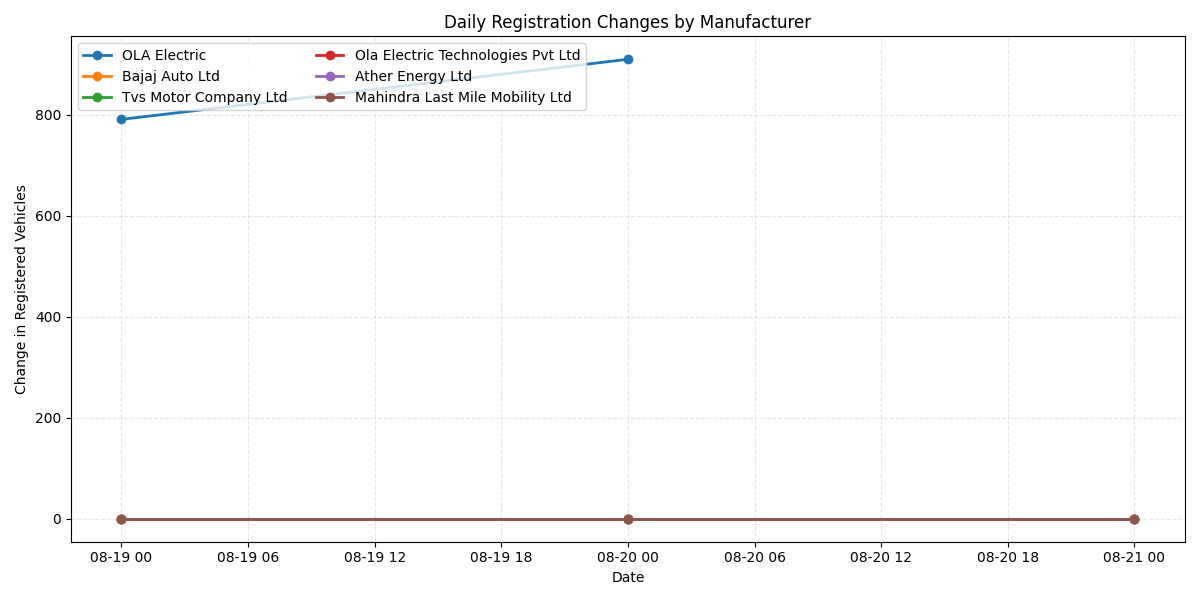
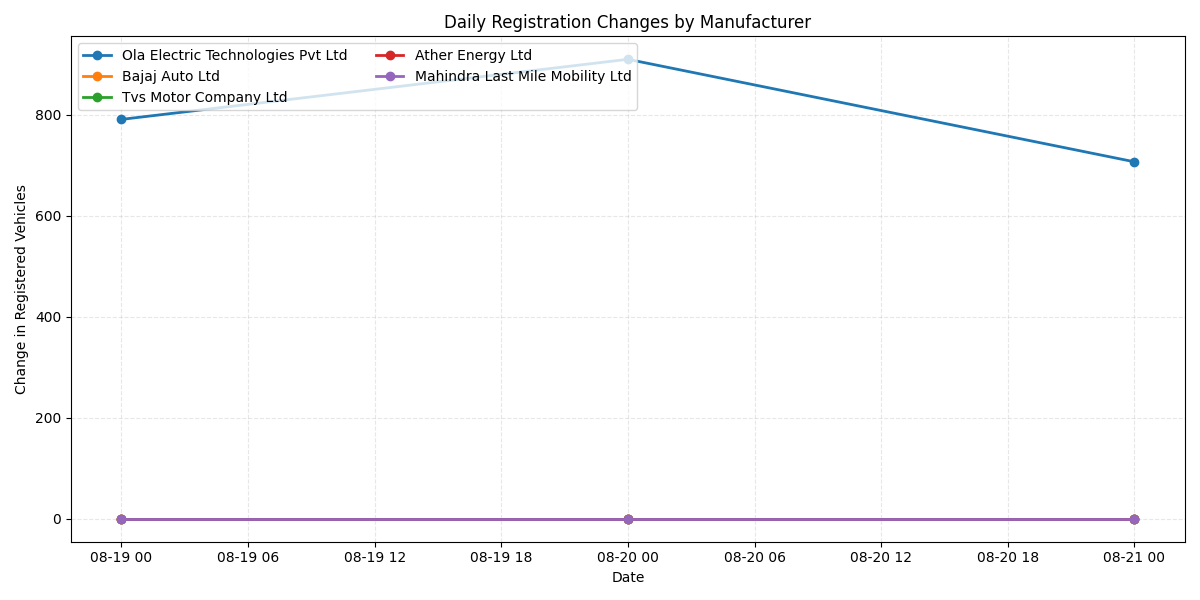
Update daily_changes.csv to correct vehicle registration data for 2025-08-21 and adjust column headers for clarity. Modify daily_changes.html and monthly_changes.html to reflect updated chart IDs and ensure consistency in embedded HTML charts.

diff --git a/docs/monthly_changes.html b/docs/monthly_changes.html
@@ -2,6 +2,6 @@
 <head><meta charset="utf-8" /></head>
 <body>
     <div>                        <script type="text/javascript">window.PlotlyConfig = {MathJaxConfig: 'local'};</script>
[2 lines of base64/hex data omitted]
 </body>
 </html>

diff --git a/docs/daily_changes.html b/docs/daily_changes.html
@@ -2,6 +2,6 @@
 <head><meta charset="utf-8" /></head>
 <body>
     <div>                        <script type="text/javascript">window.PlotlyConfig = {MathJaxConfig: 'local'};</script>
-        <script charset="utf-8" src="https://cdn.plot.ly/plotly-3.1.0.min.js" integrity="sha256-Ei4740bWZhaUTQuD6q9yQlgVCMPBz6CZWhevDYPv93A=" crossorigin="anonymous"></script>                <div id="a5bd381a-e89e-4e65-b82b-1d59f34470ca" class="plotly-graph-div" style="height:100%; width:100%;"></div>            <script type="text/javascript">                window.PLOTLYENV=window.PLOTLYENV || {};                                if (document.getElementById("a5bd381a-e89e-4e65-b82b-1d59f34470ca")) {                    Plotly.newPlot(                        "a5bd381a-e89e-4e65-b82b-1d59f34470ca",                        [{"mode":"lines+markers","name":"OLA Electric","x":["2025-08-19T00:00:00.000000000","2025-08-20T00:00:00.000000000","2025-08-21T00:00:00.000000000"],"y":{"dtype":"f8","bdata":"AAAAAAC4iEAAAAAAAHCMQAAAAAAAAPh\u002f"},"type":"scatter"},{"mode":"lines+markers","name":"Bajaj Auto Ltd","x":["2025-08-19T00:00:00.000000000","2025-08-20T00:00:00.000000000","2025-08-21T00:00:00.000000000"],"y":{"dtype":"i1","bdata":"AAAA"},"type":"scatter"},{"mode":"lines+markers","name":"Tvs Motor Company Ltd","x":["2025-08-19T00:00:00.000000000","2025-08-20T00:00:00.000000000","2025-08-21T00:00:00.000000000"],"y":{"dtype":"i1","bdata":"AAAA"},"type":"scatter"},{"mode":"lines+markers","name":"Ola Electric Technologies Pvt Ltd","x":["2025-08-19T00:00:00.000000000","2025-08-20T00:00:00.000000000","2025-08-21T00:00:00.000000000"],"y":{"dtype":"i1","bdata":"AAAA"},"type":"scatter"},{"mode":"lines+markers","name":"Ather Energy Ltd","x":["2025-08-19T00:00:00.000000000","2025-08-20T00:00:00.000000000","2025-08-21T00:00:00.000000000"],"y":{"dtype":"i1","bdata":"AAAA"},"type":"scatter"},{"mode":"lines+markers","name":"Mahindra Last Mile Mobility Ltd","x":["2025-08-19T00:00:00.000000000","2025-08-20T00:00:00.000000000","2025-08-21T00:00:00.000000000"],"y":{"dtype":"i1","bdata":"AAAA"},"type":"scatter"}],                        {"legend":{"orientation":"h","x":0,"xanchor":"left","y":1.02,"yanchor":"bottom"},"template":{"data":{"barpolar":[{"marker":{"line":{"color":"white","width":0.5},"pattern":{"fillmode":"overlay","size":10,"solidity":0.2}},"type":"barpolar"}],"bar":[{"error_x":{"color":"#2a3f5f"},"error_y":{"color":"#2a3f5f"},"marker":{"line":{"color":"white","width":0.5},"pattern":{"fillmode":"overlay","size":10,"solidity":0.2}},"type":"bar"}],"carpet":[{"aaxis":{"endlinecolor":"#2a3f5f","gridcolor":"#C8D4E3","linecolor":"#C8D4E3","minorgridcolor":"#C8D4E3","startlinecolor":"#2a3f5f"},"baxis":{"endlinecolor":"#2a3f5f","gridcolor":"#C8D4E3","linecolor":"#C8D4E3","minorgridcolor":"#C8D4E3","startlinecolor":"#2a3f5f"},"type":"carpet"}],"choropleth":[{"colorbar":{"outlinewidth":0,"ticks":""},"type":"choropleth"}],"contourcarpet":[{"colorbar":{"outlinewidth":0,"ticks":""},"type":"contourcarpet"}],"contour":[{"colorbar":{"outlinewidth":0,"ticks":""},"colorscale":[[0.0,"#0d0887"],[0.1111111111111111,"#46039f"],[0.2222222222222222,"#7201a8"],[0.3333333333333333,"#9c179e"],[0.4444444444444444,"#bd3786"],[0.5555555555555556,"#d8576b"],[0.6666666666666666,"#ed7953"],[0.7777777777777778,"#fb9f3a"],[0.8888888888888888,"#fdca26"],[1.0,"#f0f921"]],"type":"contour"}],"heatmap":[{"colorbar":{"outlinewidth":0,"ticks":""},"colorscale":[[0.0,"#0d0887"],[0.1111111111111111,"#46039f"],[0.2222222222222222,"#7201a8"],[0.3333333333333333,"#9c179e"],[0.4444444444444444,"#bd3786"],[0.5555555555555556,"#d8576b"],[0.6666666666666666,"#ed7953"],[0.7777777777777778,"#fb9f3a"],[0.8888888888888888,"#fdca26"],[1.0,"#f0f921"]],"type":"heatmap"}],"histogram2dcontour":[{"colorbar":{"outlinewidth":0,"ticks":""},"colorscale":[[0.0,"#0d0887"],[0.1111111111111111,"#46039f"],[0.2222222222222222,"#7201a8"],[0.3333333333333333,"#9c179e"],[0.4444444444444444,"#bd3786"],[0.5555555555555556,"#d8576b"],[0.6666666666666666,"#ed7953"],[0.7777777777777778,"#fb9f3a"],[0.8888888888888888,"#fdca26"],[1.0,"#f0f921"]],"type":"histogram2dcontour"}],"histogram2d":[{"colorbar":{"outlinewidth":0,"ticks":""},"colorscale":[[0.0,"#0d0887"],[0.1111111111111111,"#46039f"],[0.2222222222222222,"#7201a8"],[0.3333333333333333,"#9c179e"],[0.4444444444444444,"#bd3786"],[0.5555555555555556,"#d8576b"],[0.6666666666666666,"#ed7953"],[0.7777777777777778,"#fb9f3a"],[0.8888888888888888,"#fdca26"],[1.0,"#f0f921"]],"type":"histogram2d"}],"histogram":[{"marker":{"pattern":{"fillmode":"overlay","size":10,"solidity":0.2}},"type":"histogram"}],"mesh3d":[{"colorbar":{"outlinewidth":0,"ticks":""},"type":"mesh3d"}],"parcoords":[{"line":{"colorbar":{"outlinewidth":0,"ticks":""}},"type":"parcoords"}],"pie":[{"automargin":true,"type":"pie"}],"scatter3d":[{"line":{"colorbar":{"outlinewidth":0,"ticks":""}},"marker":{"colorbar":{"outlinewidth":0,"ticks":""}},"type":"scatter3d"}],"scattercarpet":[{"marker":{"colorbar":{"outlinewidth":0,"ticks":""}},"type":"scattercarpet"}],"scattergeo":[{"marker":{"colorbar":{"outlinewidth":0,"ticks":""}},"type":"scattergeo"}],"scattergl":[{"marker":{"colorbar":{"outlinewidth":0,"ticks":""}},"type":"scattergl"}],"scattermapbox":[{"marker":{"colorbar":{"outlinewidth":0,"ticks":""}},"type":"scattermapbox"}],"scattermap":[{"marker":{"colorbar":{"outlinewidth":0,"ticks":""}},"type":"scattermap"}],"scatterpolargl":[{"marker":{"colorbar":{"outlinewidth":0,"ticks":""}},"type":"scatterpolargl"}],"scatterpolar":[{"marker":{"colorbar":{"outlinewidth":0,"ticks":""}},"type":"scatterpolar"}],"scatter":[{"fillpattern":{"fillmode":"overlay","size":10,"solidity":0.2},"type":"scatter"}],"scatterternary":[{"marker":{"colorbar":{"outlinewidth":0,"ticks":""}},"type":"scatterternary"}],"surface":[{"colorbar":{"outlinewidth":0,"ticks":""},"colorscale":[[0.0,"#0d0887"],[0.1111111111111111,"#46039f"],[0.2222222222222222,"#7201a8"],[0.3333333333333333,"#9c179e"],[0.4444444444444444,"#bd3786"],[0.5555555555555556,"#d8576b"],[0.6666666666666666,"#ed7953"],[0.7777777777777778,"#fb9f3a"],[0.8888888888888888,"#fdca26"],[1.0,"#f0f921"]],"type":"surface"}],"table":[{"cells":{"fill":{"color":"#EBF0F8"},"line":{"color":"white"}},"header":{"fill":{"color":"#C8D4E3"},"line":{"color":"white"}},"type":"table"}]},"layout":{"annotationdefaults":{"arrowcolor":"#2a3f5f","arrowhead":0,"arrowwidth":1},"autotypenumbers":"strict","coloraxis":{"colorbar":{"outlinewidth":0,"ticks":""}},"colorscale":{"diverging":[[0,"#8e0152"],[0.1,"#c51b7d"],[0.2,"#de77ae"],[0.3,"#f1b6da"],[0.4,"#fde0ef"],[0.5,"#f7f7f7"],[0.6,"#e6f5d0"],[0.7,"#b8e186"],[0.8,"#7fbc41"],[0.9,"#4d9221"],[1,"#276419"]],"sequential":[[0.0,"#0d0887"],[0.1111111111111111,"#46039f"],[0.2222222222222222,"#7201a8"],[0.3333333333333333,"#9c179e"],[0.4444444444444444,"#bd3786"],[0.5555555555555556,"#d8576b"],[0.6666666666666666,"#ed7953"],[0.7777777777777778,"#fb9f3a"],[0.8888888888888888,"#fdca26"],[1.0,"#f0f921"]],"sequentialminus":[[0.0,"#0d0887"],[0.1111111111111111,"#46039f"],[0.2222222222222222,"#7201a8"],[0.3333333333333333,"#9c179e"],[0.4444444444444444,"#bd3786"],[0.5555555555555556,"#d8576b"],[0.6666666666666666,"#ed7953"],[0.7777777777777778,"#fb9f3a"],[0.8888888888888888,"#fdca26"],[1.0,"#f0f921"]]},"colorway":["#636efa","#EF553B","#00cc96","#ab63fa","#FFA15A","#19d3f3","#FF6692","#B6E880","#FF97FF","#FECB52"],"font":{"color":"#2a3f5f"},"geo":{"bgcolor":"white","lakecolor":"white","landcolor":"white","showlakes":true,"showland":true,"subunitcolor":"#C8D4E3"},"hoverlabel":{"align":"left"},"hovermode":"closest","mapbox":{"style":"light"},"paper_bgcolor":"white","plot_bgcolor":"white","polar":{"angularaxis":{"gridcolor":"#EBF0F8","linecolor":"#EBF0F8","ticks":""},"bgcolor":"white","radialaxis":{"gridcolor":"#EBF0F8","linecolor":"#EBF0F8","ticks":""}},"scene":{"xaxis":{"backgroundcolor":"white","gridcolor":"#DFE8F3","gridwidth":2,"linecolor":"#EBF0F8","showbackground":true,"ticks":"","zerolinecolor":"#EBF0F8"},"yaxis":{"backgroundcolor":"white","gridcolor":"#DFE8F3","gridwidth":2,"linecolor":"#EBF0F8","showbackground":true,"ticks":"","zerolinecolor":"#EBF0F8"},"zaxis":{"backgroundcolor":"white","gridcolor":"#DFE8F3","gridwidth":2,"linecolor":"#EBF0F8","showbackground":true,"ticks":"","zerolinecolor":"#EBF0F8"}},"shapedefaults":{"line":{"color":"#2a3f5f"}},"ternary":{"aaxis":{"gridcolor":"#DFE8F3","linecolor":"#A2B1C6","ticks":""},"baxis":{"gridcolor":"#DFE8F3","linecolor":"#A2B1C6","ticks":""},"bgcolor":"white","caxis":{"gridcolor":"#DFE8F3","linecolor":"#A2B1C6","ticks":""}},"title":{"x":0.05},"xaxis":{"automargin":true,"gridcolor":"#EBF0F8","linecolor":"#EBF0F8","ticks":"","title":{"standoff":15},"zerolinecolor":"#EBF0F8","zerolinewidth":2},"yaxis":{"automargin":true,"gridcolor":"#EBF0F8","linecolor":"#EBF0F8","ticks":"","title":{"standoff":15},"zerolinecolor":"#EBF0F8","zerolinewidth":2}}},"title":{"text":"Daily Registration Changes by Manufacturer"},"xaxis":{"title":{"text":"Date"}},"yaxis":{"title":{"text":"Change in Registered Vehicles"}}},                        {"responsive": true}                    )                };            </script>        </div>
+        <script charset="utf-8" src="https://cdn.plot.ly/plotly-3.1.0.min.js" integrity="sha256-Ei4740bWZhaUTQuD6q9yQlgVCMPBz6CZWhevDYPv93A=" crossorigin="anonymous"></script>                <div id="13d20763-3150-4091-8577-32b1704f7dbb" class="plotly-graph-div" style="height:100%; width:100%;"></div>            <script type="text/javascript">                window.PLOTLYENV=window.PLOTLYENV || {};                                if (document.getElementById("13d20763-3150-4091-8577-32b1704f7dbb")) {                    Plotly.newPlot(                        "13d20763-3150-4091-8577-32b1704f7dbb",                        [{"mode":"lines+markers","name":"Ola Electric Technologies Pvt Ltd","x":["2025-08-19T00:00:00.000000000","2025-08-20T00:00:00.000000000","2025-08-21T00:00:00.000000000"],"y":{"dtype":"f8","bdata":"AAAAAAC4iEAAAAAAAHCMQAAAAAAAGIZA"},"type":"scatter"},{"mode":"lines+markers","name":"Bajaj Auto Ltd","x":["2025-08-19T00:00:00.000000000","2025-08-20T00:00:00.000000000","2025-08-21T00:00:00.000000000"],"y":{"dtype":"i1","bdata":"AAAA"},"type":"scatter"},{"mode":"lines+markers","name":"Tvs Motor Company Ltd","x":["2025-08-19T00:00:00.000000000","2025-08-20T00:00:00.000000000","2025-08-21T00:00:00.000000000"],"y":{"dtype":"i1","bdata":"AAAA"},"type":"scatter"},{"mode":"lines+markers","name":"Ather Energy Ltd","x":["2025-08-19T00:00:00.000000000","2025-08-20T00:00:00.000000000","2025-08-21T00:00:00.000000000"],"y":{"dtype":"i1","bdata":"AAAA"},"type":"scatter"},{"mode":"lines+markers","name":"Mahindra Last Mile Mobility Ltd","x":["2025-08-19T00:00:00.000000000","2025-08-20T00:00:00.000000000","2025-08-21T00:00:00.000000000"],"y":{"dtype":"i1","bdata":"AAAA"},"type":"scatter"}],                        {"legend":{"orientation":"h","x":0,"xanchor":"left","y":1.02,"yanchor":"bottom"},"template":{"data":{"barpolar":[{"marker":{"line":{"color":"white","width":0.5},"pattern":{"fillmode":"overlay","size":10,"solidity":0.2}},"type":"barpolar"}],"bar":[{"error_x":{"color":"#2a3f5f"},"error_y":{"color":"#2a3f5f"},"marker":{"line":{"color":"white","width":0.5},"pattern":{"fillmode":"overlay","size":10,"solidity":0.2}},"type":"bar"}],"carpet":[{"aaxis":{"endlinecolor":"#2a3f5f","gridcolor":"#C8D4E3","linecolor":"#C8D4E3","minorgridcolor":"#C8D4E3","startlinecolor":"#2a3f5f"},"baxis":{"endlinecolor":"#2a3f5f","gridcolor":"#C8D4E3","linecolor":"#C8D4E3","minorgridcolor":"#C8D4E3","startlinecolor":"#2a3f5f"},"type":"carpet"}],"choropleth":[{"colorbar":{"outlinewidth":0,"ticks":""},"type":"choropleth"}],"contourcarpet":[{"colorbar":{"outlinewidth":0,"ticks":""},"type":"contourcarpet"}],"contour":[{"colorbar":{"outlinewidth":0,"ticks":""},"colorscale":[[0.0,"#0d0887"],[0.1111111111111111,"#46039f"],[0.2222222222222222,"#7201a8"],[0.3333333333333333,"#9c179e"],[0.4444444444444444,"#bd3786"],[0.5555555555555556,"#d8576b"],[0.6666666666666666,"#ed7953"],[0.7777777777777778,"#fb9f3a"],[0.8888888888888888,"#fdca26"],[1.0,"#f0f921"]],"type":"contour"}],"heatmap":[{"colorbar":{"outlinewidth":0,"ticks":""},"colorscale":[[0.0,"#0d0887"],[0.1111111111111111,"#46039f"],[0.2222222222222222,"#7201a8"],[0.3333333333333333,"#9c179e"],[0.4444444444444444,"#bd3786"],[0.5555555555555556,"#d8576b"],[0.6666666666666666,"#ed7953"],[0.7777777777777778,"#fb9f3a"],[0.8888888888888888,"#fdca26"],[1.0,"#f0f921"]],"type":"heatmap"}],"histogram2dcontour":[{"colorbar":{"outlinewidth":0,"ticks":""},"colorscale":[[0.0,"#0d0887"],[0.1111111111111111,"#46039f"],[0.2222222222222222,"#7201a8"],[0.3333333333333333,"#9c179e"],[0.4444444444444444,"#bd3786"],[0.5555555555555556,"#d8576b"],[0.6666666666666666,"#ed7953"],[0.7777777777777778,"#fb9f3a"],[0.8888888888888888,"#fdca26"],[1.0,"#f0f921"]],"type":"histogram2dcontour"}],"histogram2d":[{"colorbar":{"outlinewidth":0,"ticks":""},"colorscale":[[0.0,"#0d0887"],[0.1111111111111111,"#46039f"],[0.2222222222222222,"#7201a8"],[0.3333333333333333,"#9c179e"],[0.4444444444444444,"#bd3786"],[0.5555555555555556,"#d8576b"],[0.6666666666666666,"#ed7953"],[0.7777777777777778,"#fb9f3a"],[0.8888888888888888,"#fdca26"],[1.0,"#f0f921"]],"type":"histogram2d"}],"histogram":[{"marker":{"pattern":{"fillmode":"overlay","size":10,"solidity":0.2}},"type":"histogram"}],"mesh3d":[{"colorbar":{"outlinewidth":0,"ticks":""},"type":"mesh3d"}],"parcoords":[{"line":{"colorbar":{"outlinewidth":0,"ticks":""}},"type":"parcoords"}],"pie":[{"automargin":true,"type":"pie"}],"scatter3d":[{"line":{"colorbar":{"outlinewidth":0,"ticks":""}},"marker":{"colorbar":{"outlinewidth":0,"ticks":""}},"type":"scatter3d"}],"scattercarpet":[{"marker":{"colorbar":{"outlinewidth":0,"ticks":""}},"type":"scattercarpet"}],"scattergeo":[{"marker":{"colorbar":{"outlinewidth":0,"ticks":""}},"type":"scattergeo"}],"scattergl":[{"marker":{"colorbar":{"outlinewidth":0,"ticks":""}},"type":"scattergl"}],"scattermapbox":[{"marker":{"colorbar":{"outlinewidth":0,"ticks":""}},"type":"scattermapbox"}],"scattermap":[{"marker":{"colorbar":{"outlinewidth":0,"ticks":""}},"type":"scattermap"}],"scatterpolargl":[{"marker":{"colorbar":{"outlinewidth":0,"ticks":""}},"type":"scatterpolargl"}],"scatterpolar":[{"marker":{"colorbar":{"outlinewidth":0,"ticks":""}},"type":"scatterpolar"}],"scatter":[{"fillpattern":{"fillmode":"overlay","size":10,"solidity":0.2},"type":"scatter"}],"scatterternary":[{"marker":{"colorbar":{"outlinewidth":0,"ticks":""}},"type":"scatterternary"}],"surface":[{"colorbar":{"outlinewidth":0,"ticks":""},"colorscale":[[0.0,"#0d0887"],[0.1111111111111111,"#46039f"],[0.2222222222222222,"#7201a8"],[0.3333333333333333,"#9c179e"],[0.4444444444444444,"#bd3786"],[0.5555555555555556,"#d8576b"],[0.6666666666666666,"#ed7953"],[0.7777777777777778,"#fb9f3a"],[0.8888888888888888,"#fdca26"],[1.0,"#f0f921"]],"type":"surface"}],"table":[{"cells":{"fill":{"color":"#EBF0F8"},"line":{"color":"white"}},"header":{"fill":{"color":"#C8D4E3"},"line":{"color":"white"}},"type":"table"}]},"layout":{"annotationdefaults":{"arrowcolor":"#2a3f5f","arrowhead":0,"arrowwidth":1},"autotypenumbers":"strict","coloraxis":{"colorbar":{"outlinewidth":0,"ticks":""}},"colorscale":{"diverging":[[0,"#8e0152"],[0.1,"#c51b7d"],[0.2,"#de77ae"],[0.3,"#f1b6da"],[0.4,"#fde0ef"],[0.5,"#f7f7f7"],[0.6,"#e6f5d0"],[0.7,"#b8e186"],[0.8,"#7fbc41"],[0.9,"#4d9221"],[1,"#276419"]],"sequential":[[0.0,"#0d0887"],[0.1111111111111111,"#46039f"],[0.2222222222222222,"#7201a8"],[0.3333333333333333,"#9c179e"],[0.4444444444444444,"#bd3786"],[0.5555555555555556,"#d8576b"],[0.6666666666666666,"#ed7953"],[0.7777777777777778,"#fb9f3a"],[0.8888888888888888,"#fdca26"],[1.0,"#f0f921"]],"sequentialminus":[[0.0,"#0d0887"],[0.1111111111111111,"#46039f"],[0.2222222222222222,"#7201a8"],[0.3333333333333333,"#9c179e"],[0.4444444444444444,"#bd3786"],[0.5555555555555556,"#d8576b"],[0.6666666666666666,"#ed7953"],[0.7777777777777778,"#fb9f3a"],[0.8888888888888888,"#fdca26"],[1.0,"#f0f921"]]},"colorway":["#636efa","#EF553B","#00cc96","#ab63fa","#FFA15A","#19d3f3","#FF6692","#B6E880","#FF97FF","#FECB52"],"font":{"color":"#2a3f5f"},"geo":{"bgcolor":"white","lakecolor":"white","landcolor":"white","showlakes":true,"showland":true,"subunitcolor":"#C8D4E3"},"hoverlabel":{"align":"left"},"hovermode":"closest","mapbox":{"style":"light"},"paper_bgcolor":"white","plot_bgcolor":"white","polar":{"angularaxis":{"gridcolor":"#EBF0F8","linecolor":"#EBF0F8","ticks":""},"bgcolor":"white","radialaxis":{"gridcolor":"#EBF0F8","linecolor":"#EBF0F8","ticks":""}},"scene":{"xaxis":{"backgroundcolor":"white","gridcolor":"#DFE8F3","gridwidth":2,"linecolor":"#EBF0F8","showbackground":true,"ticks":"","zerolinecolor":"#EBF0F8"},"yaxis":{"backgroundcolor":"white","gridcolor":"#DFE8F3","gridwidth":2,"linecolor":"#EBF0F8","showbackground":true,"ticks":"","zerolinecolor":"#EBF0F8"},"zaxis":{"backgroundcolor":"white","gridcolor":"#DFE8F3","gridwidth":2,"linecolor":"#EBF0F8","showbackground":true,"ticks":"","zerolinecolor":"#EBF0F8"}},"shapedefaults":{"line":{"color":"#2a3f5f"}},"ternary":{"aaxis":{"gridcolor":"#DFE8F3","linecolor":"#A2B1C6","ticks":""},"baxis":{"gridcolor":"#DFE8F3","linecolor":"#A2B1C6","ticks":""},"bgcolor":"white","caxis":{"gridcolor":"#DFE8F3","linecolor":"#A2B1C6","ticks":""}},"title":{"x":0.05},"xaxis":{"automargin":true,"gridcolor":"#EBF0F8","linecolor":"#EBF0F8","ticks":"","title":{"standoff":15},"zerolinecolor":"#EBF0F8","zerolinewidth":2},"yaxis":{"automargin":true,"gridcolor":"#EBF0F8","linecolor":"#EBF0F8","ticks":"","title":{"standoff":15},"zerolinecolor":"#EBF0F8","zerolinewidth":2}}},"title":{"text":"Daily Registration Changes by Manufacturer"},"xaxis":{"title":{"text":"Date"}},"yaxis":{"title":{"text":"Change in Registered Vehicles"}}},                        {"responsive": true}                    )                };            </script>        </div>
 </body>
 </html>
